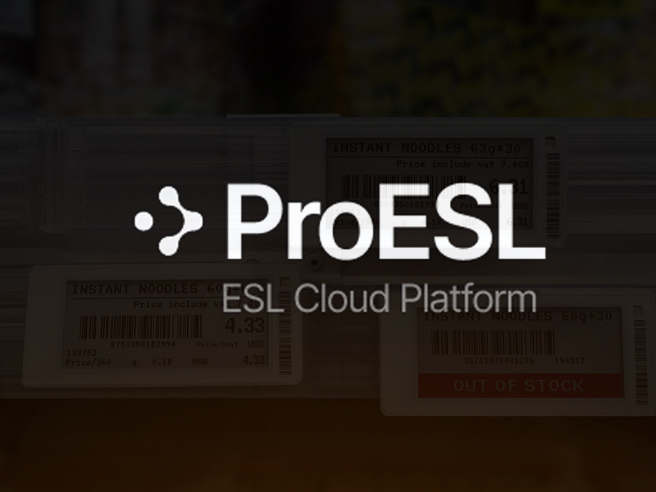
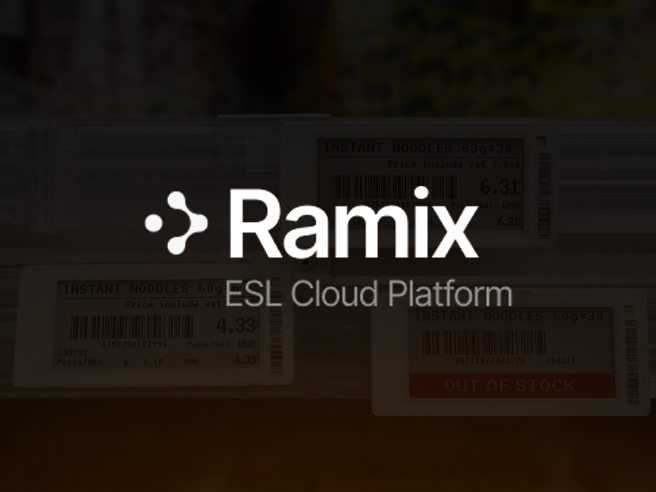
ramix page done

Changed region(s): [[0.1829, 0.3659, 0.8537, 0.6402]]

diff --git a/projects/ramix.html b/projects/ramix.html
@@ -60,29 +60,48 @@
                     </div>
                     <div class="content-part">
                         <div>
-                            <div class="project-category-tag">Full-Stack Development</div>
                             <h1 class="project-title">Ramix: Cloud ESL Tags Platform</h1>
-                            <div class="project-image">
-                                <img src="../img/placeholder.jpg" alt="Project Image" />
+                            <div class="project-category-tag">Full-Stack Development</div>
+                            <div class="project-image full-height">
+                                <img
+                                    src="../img/screenshot-ramix.jpeg"
+                                    alt="Project Image"
+                                />
                             </div>
                             <div class="project-meta">
                                 <div>
                                     <div>
-                                        <h4>Client</h4>
-                                        <div>Client Company Image Here</div>
-                                    </div>
-                                    <div>
-                                        <h4>Technologies</h4>
+                                        <h4>Technology Stack</h4>
                                         <div class="icons">
                                             <img
-                                                src="../img/nodejs.png"
-                                                alt="Node.js"
-                                                title="Node.js"
+                                                src="../img/react.png"
+                                                alt="React"
+                                                title="React"
                                             />
                                             <img
-                                                src="../img/express.png"
-                                                alt="ExpressJS"
-                                                title="ExpressJS"
+                                                src="../img/nestjs.png"
+                                                alt="NestJS"
+                                                title="NestJS"
+                                            />
+                                            <img
+                                                src="../img/postgresql.png"
+                                                alt="PostgreSQL"
+                                                title="PostgreSQL"
+                                            />
+                                            <img
+                                                src="../img/auth0.png"
+                                                alt="Auth0"
+                                                title="Auth0"
+                                            />
+                                            <img
+                                                src="../img/aws.png"
+                                                alt="AWS"
+                                                title="AWS"
+                                            />
+                                            <img
+                                                src="../img/figma.png"
+                                                alt="AWS"
+                                                title="Figma"
                                             />
                                         </div>
                                     </div>
@@ -98,30 +117,56 @@
                             </div>
                             <div class="project-description">
                                 <p>
-                                    Lorem ipsum dolor sit amet, consectetur adipiscing
-                                    elit. Integer consectetur nulla sapien, pellentesque
-                                    convallis enim cursus imperdiet. Maecenas posuere
-                                    tellus leo, a placerat leo ultrices vel. Sed
-                                    sollicitudin pellentesque lobortis. Sed nec nibh
-                                    tincidunt neque laoreet rhoncus. Duis vel varius leo.
-                                    Nullam feugiat iaculis risus pharetra sollicitudin.
-                                    Vivamus id nunc pharetra, porttitor lectus dictum,
-                                    molestie orci. In luctus consequat lacus vitae
-                                    pellentesque. Etiam vestibulum turpis vel molestie
-                                    ultrices. Nunc eleifend id ante elementum scelerisque.
-                                    Mauris fermentum euismod nulla eget maximus. Maecenas
-                                    non porta tortor. Curabitur malesuada consequat eros,
-                                    et auctor quam eleifend in. Vestibulum congue nisi ut
-                                    mi congue, ut commodo tortor suscipit.
+                                    Ramix is an advanced solution for managing Electronic
+                                    Shelf Tags (ESL), offering a seamless and intuitive
+                                    interface for efficient retail operations. The
+                                    software solution enables users to manage merchants,
+                                    stores, and products, link or unlink tags, and add or
+                                    delete gateways effortlessly.
                                 </p>
                                 <p>
-                                    Mauris ultricies ex id metus pretium efficitur. Morbi
-                                    ut ligula eget mi consequat imperdiet. Suspendisse
-                                    faucibus congue nulla a pharetra. Aliquam tellus
-                                    velit, iaculis eu metus a, interdum laoreet elit.
-                                    Aenean scelerisque est at malesuada egestas. Donec
-                                    venenatis bibendum tortor id malesuada. Suspendisse
-                                    potenti. Donec accumsan tellus vitae sodales sagittis.
+                                    The platform also features a customizable ESL tag
+                                    templating system, a robust Role-Based Access Control
+                                    (RBAC) mechanism for secure feature access, a logging
+                                    system to monitor in-store operations, and a dynamic
+                                    dashboard that provides tailored statistics based on
+                                    user roles. The authenticated access is powered by
+                                    Auth0, ensuring that the application is protected
+                                    using latest industry standards.
+                                </p>
+                                <p>
+                                    Ramix is supported on all major platforms all major
+                                    web browsers. It is also a progressive web application
+                                    (PWA) that can be installed seamlessly. The
+                                    highlighted feature is that it encompasses a
+                                    custom-developed ZXing-based QR/barcode scanner that
+                                    helps manage devices, products and gateways easily
+                                    when using handheld devices such as a tablet or a
+                                    mobile phone.
+                                </p>
+                                <div><b>Solution Offered:</b></div>
+                                <ul>
+                                    <li>
+                                        UI/UX Design of the proposed solution done using
+                                        Figma design tool, with continuous feedback and
+                                        improvements.
+                                    </li>
+                                    <li>
+                                        Full-Stack Development with a mono-repo repository
+                                        architecture
+                                    </li>
+                                    <li>
+                                        Deployment and Monitoring on Amazon Web Services
+                                    </li>
+                                </ul>
+                            </div>
+                            <div class="small-text text-color-tertiary right-align">
+                                <p class="m-0">
+                                    Content is displayed with consent from the client.
+                                </p>
+                                <p class="m-0">
+                                    All logos and names are trademarks of their respective
+                                    owners.
                                 </p>
                             </div>
                         </div>

diff --git a/css/projects.css b/css/projects.css
@@ -7,7 +7,6 @@ main section.content {
 main section.content .nav-part {
     display: flex;
     align-items: center;
-    margin-bottom: 20px;
 }
 
 main section.content .nav-part .back-nav-button {
@@ -58,6 +57,7 @@ main section.content .project-category-tag {
     color: var(--highlight);
     background-color: #4dd0e122;
     border-radius: 100px;
+    margin-bottom: 20px;
 }
 
 main section.content .content-part .spacer {
@@ -72,7 +72,8 @@ main section.content .content-part {
 main section.content .project-title {
     font-size: 36px;
     font-weight: 300;
-    margin: 20px 0;
+    margin: 10px 0;
+    margin-top: 0;
 }
 
 main section.content .project-image {
@@ -99,6 +100,7 @@ main section.content .project-description {
     color: var(--text-color-secondary);
     font-weight: 400;
     line-height: 1.5;
+    margin: 30px 0;
 }
 
 main section.content .project-meta {
@@ -115,6 +117,12 @@ main section.content .project-meta > div {
 main section.content .project-meta h4 {
     margin: 0;
     margin-bottom: 10px;
+}
+
+main section.content .project-meta .client-name {
+    display: flex;
+    flex-direction: column;
+    justify-content: center;
 }
 
 main section.content .project-meta .icons {

diff --git a/index.html b/index.html
@@ -170,6 +170,7 @@
                                     title="Firebase"
                                 />
                                 <img src="img/auth0.png" alt="Auth0" title="Auth0" />
+                                <img src="../img/figma.png" alt="AWS" title="Figma" />
                             </div>
                         </div>
                     </div>
@@ -211,7 +212,7 @@
                                     Ramix: Cloud ESL Tags Platform
                                 </div>
                                 <div class="project-description">
-                                    ProESL is an advanced solution for managing Electronic
+                                    Ramix is an advanced solution for managing Electronic
                                     Shelf Tags (ESL), offering a seamless and intuitive
                                     interface for efficient retail operations.
                                 </div>

diff --git a/css/main.css b/css/main.css
@@ -28,9 +28,18 @@ body {
     scroll-behavior: smooth;
 }
 
+/* ====== Alignments ====== */
+.right-align {
+    text-align: right;
+}
+
 /* ====== Colors ====== */
 .highlight {
     color: var(--highlight);
+}
+
+.text-color-tertiary {
+    color: var(--text-color-tertiary);
 }
 
 /* ====== Secondary Fonts ====== */
@@ -62,6 +71,16 @@ body {
 
 .m-0 {
     margin: 0;
+}
+
+/* ====== Flex Workarounds ====== */
+.flex-vertical-center {
+    display: flex;
+    align-items: center;
+}
+
+.flex-1 {
+    flex: 1;
 }
 
 /* ====== Moving Custom Cursor ====== */
@@ -604,6 +623,10 @@ footer {
 footer div p {
     margin: 0;
     display: inline;
+}
+
+.small-text {
+    font-size: 10px;
 }
 
 /* Responsive Styles */
